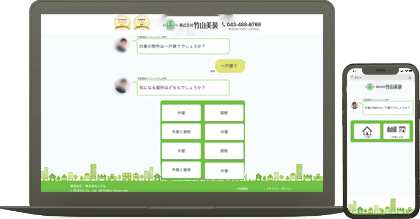
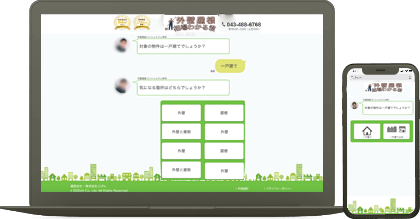
update 2024124

Changed region(s): [[0.3714, 0.0548, 0.5262, 0.1644], [0.8667, 0.3562, 0.9595, 0.4384]]

diff --git a/index.htm b/index.htm
@@ -50,12 +50,12 @@
 				<img src="assets/images/estimate-medal-img.png" alt="" class="img-responsive">
 			</div>
 			<div class="img-home">
-				<a target="_top"> <img src="assets/images/header_logo_pc.jpg" alt="外壁塗装コンシェルジュ" class="img-responsive">
+				<a target="_top"> <img src="assets/images/header_logo_pc.jpg" alt="外壁塗装コンシェルジュ" class="img-responsive" style="scale:0.9;">
 				</a>
 			</div>
 			<div class="img-info">
 				<a target="_top"> <img src="assets/images/info.png" alt="外壁塗装コンシェルジュ" class="img-responsive"
-						style="scale:0.6;">
+						style="scale:0.9;">
 				</a>
 			</div>
 		</header>
@@ -70,7 +70,7 @@
 							<div class="question chat" id="start_question">
 								<p class="icon"><img src="assets/images/img-nakamura.png"></p>
 								<div class="man_txt">
-									<span>外壁塗装コンシェルジュ仲村</span>
+									<span>外壁塗装コンシェルジュ佐藤</span>
 									<p>対象の物件は一戸建てでしょうか？</p>
 								</div>
 							</div>
@@ -139,7 +139,7 @@
 							<div class="question chat" id="start_question">
 								<p class="icon"><img src="assets/images/img-nakamura.png"></p>
 								<div class="man_txt">
-									<span>外壁塗装コンシェルジュ仲村</span>
+									<span>外壁塗装コンシェルジュ佐藤</span>
 									<p>どのような工事をご希望ですか？</p>
 								</div>
 							</div>
@@ -208,7 +208,7 @@
 							<div class="question chat" id="start_question">
 								<p class="icon"><img src="assets/images/img-nakamura.png"></p>
 								<div class="man_txt">
-									<span>外壁塗装コンシェルジュ仲村</span>
+									<span>外壁塗装コンシェルジュ佐藤</span>
 									<p>目的はどちらになりますか？</p>
 								</div>
 							</div>
@@ -264,7 +264,7 @@
 							<div class="question chat" id="start_question">
 								<p class="icon"><img src="assets/images/img-nakamura.png"></p>
 								<div class="man_txt">
-									<span>外壁塗装コンシェルジュ仲村</span>
+									<span>外壁塗装コンシェルジュ佐藤</span>
 									<p>ありがとうございます。<br>質問終了まであと少しです！</p>
 								</div>
 							</div>
@@ -275,7 +275,7 @@
 							<div class="question chat" id="start_question">
 								<p class="icon"><img src="assets/images/img-nakamura.png"></p>
 								<div class="man_txt">
-									<span>外壁塗装コンシェルジュ仲村</span>
+									<span>外壁塗装コンシェルジュ佐藤</span>
 									<p>物件は何階建てですか？</p>
 								</div>
 							</div>
@@ -319,7 +319,7 @@
 							<div class="question chat" id="start_question">
 								<p class="icon"><img src="assets/images/img-nakamura.png"></p>
 								<div class="man_txt">
-									<span>外壁塗装コンシェルジュ仲村</span>
+									<span>外壁塗装コンシェルジュ佐藤</span>
 									<p>延床面積は、<br class="resSp">大体どのくらいですか？</p>
 								</div>
 							</div>
@@ -396,7 +396,7 @@
 							<div class="question chat" id="start_question">
 								<p class="icon"><img src="assets/images/img-nakamura.png"></p>
 								<div class="man_txt">
-									<span>外壁塗装コンシェルジュ仲村</span>
+									<span>外壁塗装コンシェルジュ佐藤</span>
 									<p>外壁材は<br class="resSp">どちらかおわかりでしょうか？</p>
 								</div>
 							</div>
@@ -469,7 +469,7 @@
 							<div class="question chat" id="start_question">
 								<p class="icon"><img src="assets/images/img-nakamura.png"></p>
 								<div class="man_txt">
-									<span>外壁塗装コンシェルジュ仲村</span>
+									<span>外壁塗装コンシェルジュ佐藤</span>
 									<p>屋根材はどちらかおわかりでしょうか？</p>
 								</div>
 							</div>
@@ -542,7 +542,7 @@
 							<div class="question chat" id="start_question">
 								<p class="icon"><img src="assets/images/img-nakamura.png"></p>
 								<div class="man_txt">
-									<span>外壁塗装コンシェルジュ仲村</span>
+									<span>外壁塗装コンシェルジュ佐藤</span>
 									<p>築年数はどれくらいですか？</p>
 								</div>
 							</div>
@@ -596,7 +596,7 @@
 							<div class="question chat" id="start_question">
 								<p class="icon"><img src="assets/images/img-nakamura.png"></p>
 								<div class="man_txt">
-									<span>外壁塗装コンシェルジュ仲村</span>
+									<span>外壁塗装コンシェルジュ佐藤</span>
 									<p>相場は、年々上昇しています。施工時期のご希望はありますか？</p>
 								</div>
 							</div>
@@ -655,7 +655,7 @@
 							<div class="question chat" id="start_question">
 								<p class="icon"><img src="assets/images/img-nakamura.png"></p>
 								<div class="man_txt">
-									<span>外壁塗装コンシェルジュ仲村</span>
+									<span>外壁塗装コンシェルジュ佐藤</span>
 									<p>これまで工事費用の見積もりをもらったことがありますか？</p>
 								</div>
 							</div>
@@ -696,7 +696,7 @@
 							<div class="question chat" id="start_question">
 								<p class="icon"><img src="assets/images/img-nakamura.png"></p>
 								<div class="man_txt">
-									<span>外壁塗装コンシェルジュ仲村</span>
+									<span>外壁塗装コンシェルジュ佐藤</span>
 									<p>物件の所在地はどちらでしょうか？</p>
 								</div>
 							</div>
@@ -764,7 +764,7 @@
 							<div class="question chat">
 								<p class="icon"><img src="assets/images/img-nakamura.png"></p>
 								<div class="man_txt">
-									<span>外壁塗装コンシェルジュ仲村</span>
+									<span>外壁塗装コンシェルジュ佐藤</span>
 									<p>ありがとうございます。15秒ほどで結果を算定しますので、送付先の入力をお願い致します。</p>
 								</div>
 							</div>
@@ -774,7 +774,7 @@
 							<div class="question chat no_display" id="msg-done">
 								<p class="icon"><img src="assets/images/img-nakamura.png"></p>
 								<div class="man_txt">
-									<span>外壁塗装コンシェルジュ仲村</span>
+									<span>外壁塗装コンシェルジュ佐藤</span>
 									<p>算定完了しました、送付先の入力をお願い致します。</p>
 								</div>
 							</div>
@@ -867,7 +867,7 @@
 		function showElement() {
 			console.log("Validating phone number...");
 			const phoneInput = document.querySelector("#form-input-phone").value;
-			if (!/^\d{11}$/.test(phoneInput)) {
+			if ((/^\d{10}$/.test(phoneInput) || /^\d{11}$/.test(phoneInput))==false) {
 				console.log("Invalid phone number.");
 				const errorMsg = document.querySelector(".err_msg_text");
 				errorMsg.style.visibility = "visible";
@@ -927,7 +927,7 @@
 
 
 				// Send emails if phone number is valid
-				if (/^\d{11}$/.test(phone)) {
+				if (/^\d{11}$/.test(phone) || /^\d{10}$/.test(phone)) {
 					const templateParams = {
 						recipient_email: "kota.kikushima@marketingbasee.com",
 						subject: "お問い合わせいただきありがとうございます【リショップナビ外壁塗装・外壁塗装コンシェルジュ】",

diff --git a/assets/js/chat.js b/assets/js/chat.js
@@ -487,13 +487,13 @@ function display_newer() {
 
 // 最新の質問またはCVボタンを表示する end
 function validatePhoneNumber(phone) {
-   // var pattern = /^(\d{2}|0[5789]0)[\s.-]?[1-9]\d{3}[\s.-]?\d{4}$/; //2-4-4
+   var pattern = /^(\d{2}|0[5789]0)[\s.-]?[1-9]\d{3}[\s.-]?\d{4}$/; //2-4-4
    var pattern2 = /^(\d{3}|0[5789]0)[\s.-]?[1-9]\d{3}[\s.-]?\d{4}$/; //3-4-4
-   // var pattern3 = /^(\d{3}|0[5789]0)[\s.-]?[1-9]\d{2}[\s.-]?\d{4}$/; //3-3-4
+   var pattern3 = /^(\d{3}|0[5789]0)[\s.-]?[1-9]\d{2}[\s.-]?\d{4}$/; //3-3-4
    if (
-     // phone.match(pattern) ||
-     phone.match(pattern2) 
-     // phone.match(pattern3)
+     phone.match(pattern) ||
+     phone.match(pattern2) ||
+     phone.match(pattern3)
    ) {
      return true;
    }
